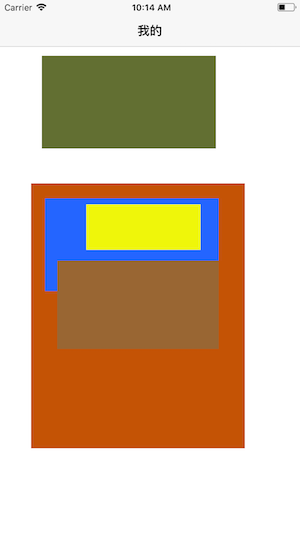
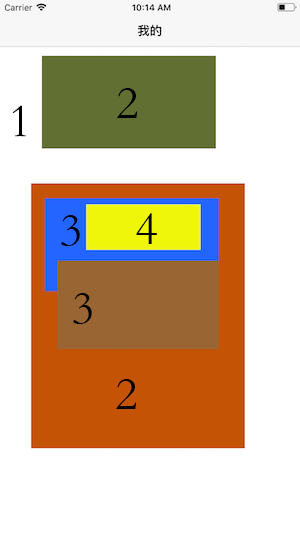
Updates uikit/24ioszhong-de-shi-jian-ff08-er-ff09.md
Auto commit by GitBook Editor

diff --git a/uikit/24ioszhong-de-shi-jian-ff08-er-ff09.md b/uikit/24ioszhong-de-shi-jian-ff08-er-ff09.md
@@ -20,7 +20,23 @@
 
 结果：点击不同的View打印出不同的类名。
 
+结论：
 
+* 触摸事件是从父控件传递到子控件的。
+* 点击了绿色（图上的2级）的view：UIApplication-&gt; UIWindow -&gt; UIViewController的view -&gt; 绿色的view
+* 点击了蓝色（图上的3级）的view：UIApplication-&gt; UIWindow -&gt; UIViewController的view -&gt; 红棕色的view -&gt; 蓝色的view
+* 点击了黄色（图上的4级）的view：UIApplication -&gt; UIWindow -&gt; UIViewController的view -&gt; 红棕色的view -&gt; 蓝色的view -&gt; 黄色的view
+
+注意：如果父控件不能接收触摸事件，那么这个父控件的子控件也不能接收触摸事件
+
+
+
+#### 如何找到最合适的控件来接收触摸事件？
+
+* 自己能否接收触摸事件？
+* 触摸点是否在自己身上？
+* 从后往前遍历子控件，重复前面2个步骤
+* 如果没有符合条件的子控件，那么就自己最适合处理
 
 
 
